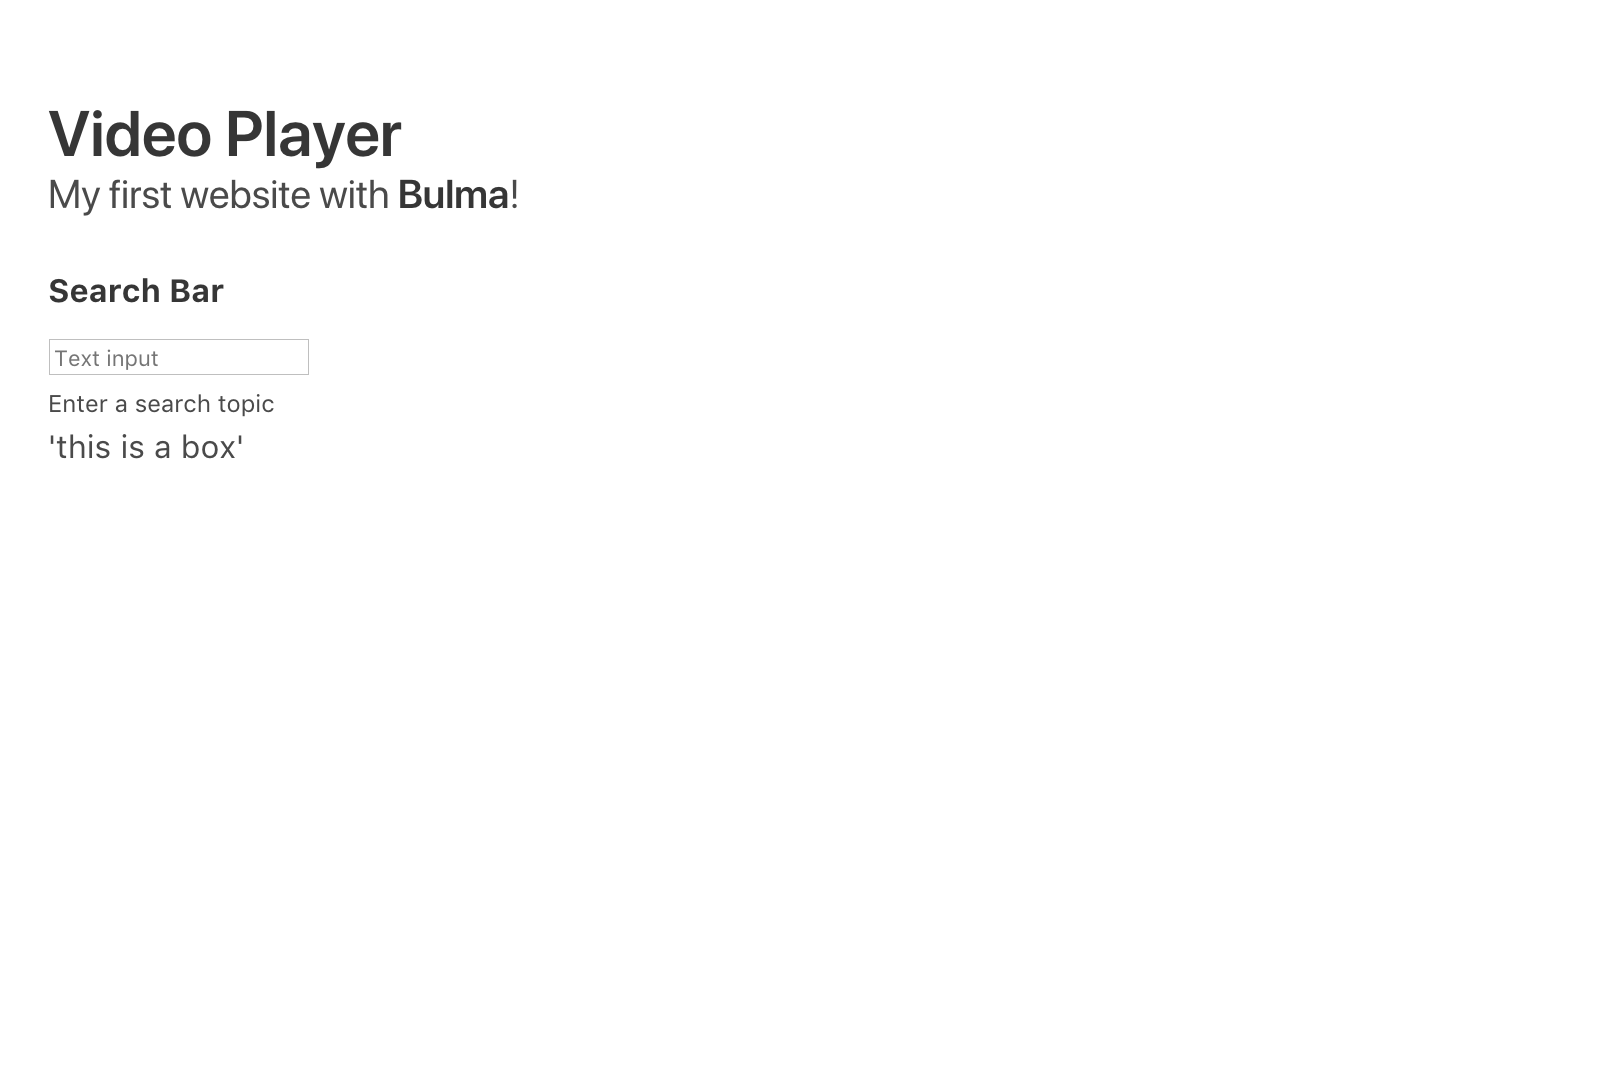
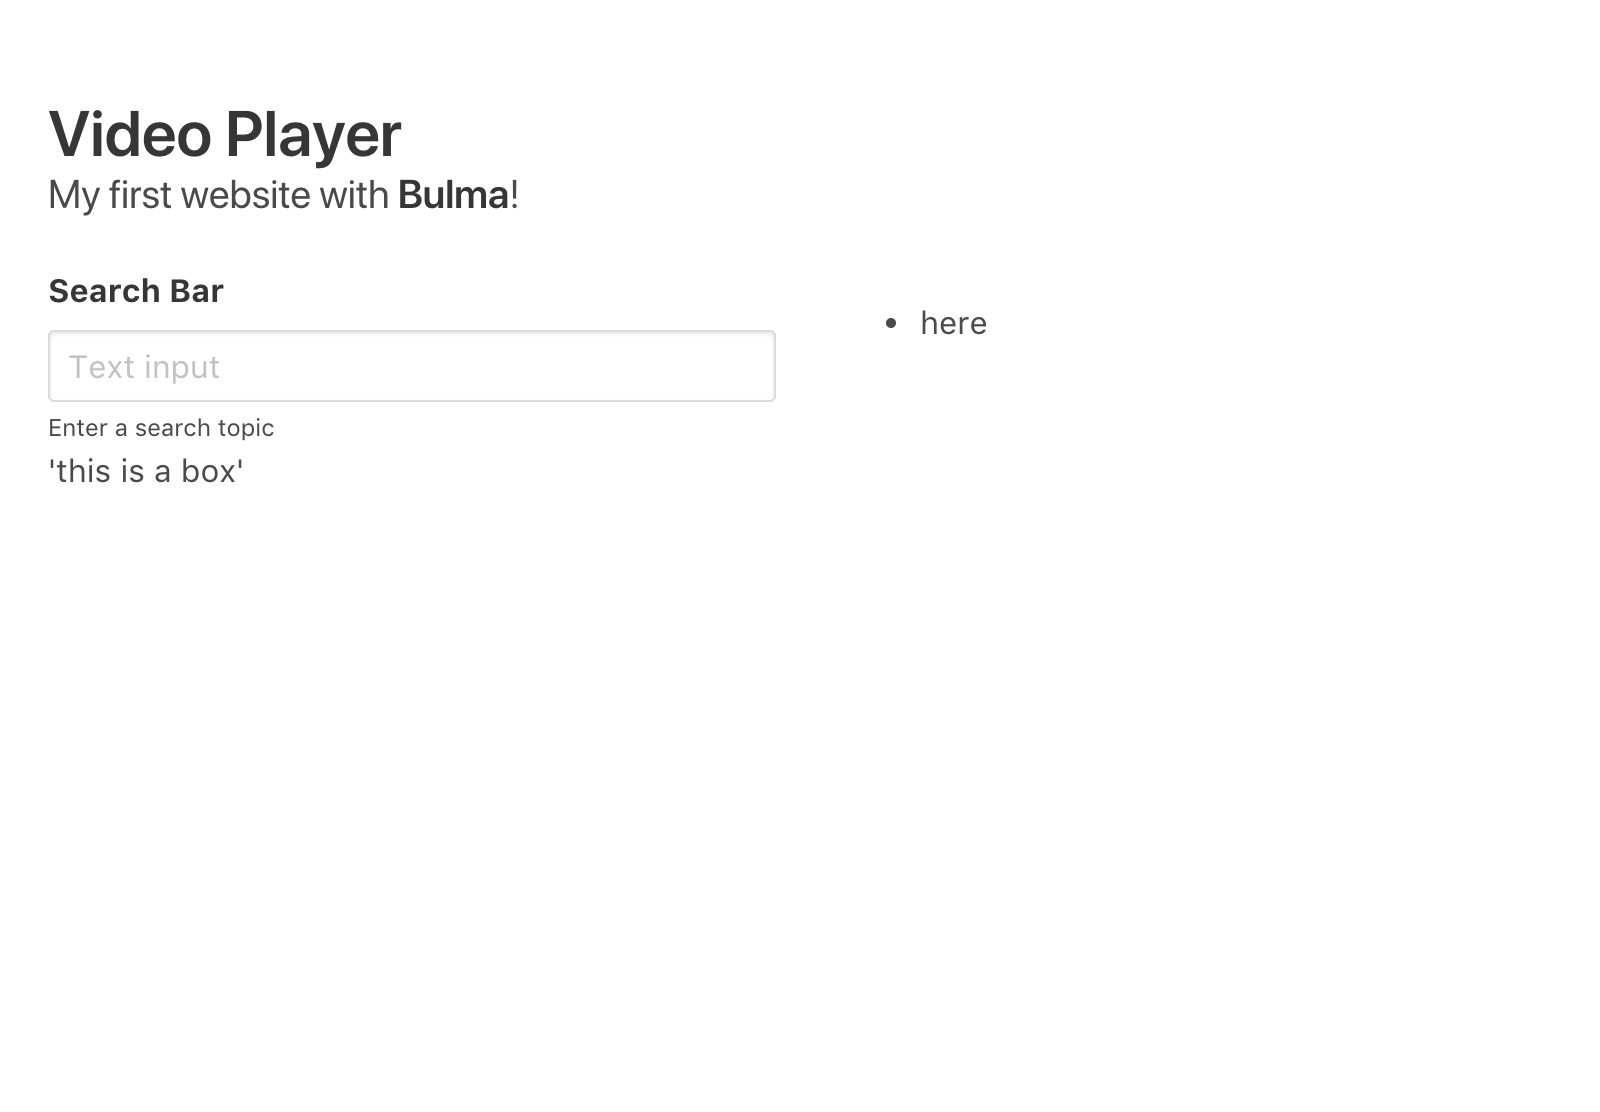
got genorators to work

Changed region(s): [[0.0312, 0.0927, 0.3125, 0.2163], [0.0312, 0.2472, 0.1875, 0.4326], [0.5625, 0.2781, 0.625, 0.309]]

diff --git a/src/components/StartUp.js b/src/components/StartUp.js
@@ -6,28 +6,31 @@ import SearchBar from './SearchBar'
 import VideoPlayer from './VideoPlayer'
 import VideoList from './VideoList'
 
-const API_key = "AIzaSyB3--fdiw09Mdkq5QMv23CpdTgP-gmPubY"
-
+const API_key = 'AIzaSyB3--fdiw09Mdkq5QMv23CpdTgP-gmPubY'
 
 class StartUp extends Component {
-  constructor(props){
+  constructor (props) {
     super(props)
-    this.state = {videos:[]}
+    this.state = {videos: []}
 
-    YTsearch({key:API_key, term:"snow"},(YTvideos) =>{
-      this.setState({videos:YTvideos})
-      console.log("here", YTvideos)
+    YTsearch({key: API_key, term: 'snow'}, (YTvideos) => {
+      this.setState({videos: YTvideos})
+      console.log('here', YTvideos)
     })
   }
 
-  render() {
+  render () {
     return (
-      <div>
-        <SearchBar />
-        <VideoPlayer />
-        <VideoList videos={this.state.videos} />
+      <div className="columns">
+        <div className="column">
+          <SearchBar />
+          <VideoPlayer />
+        </div>
+        <div className="column">
+          <VideoList videos={this.state.videos} />
+        </div>
       </div>
-    );
+    )
   }
 }
 

diff --git a/test/test-1_test.js b/test/test-1_test.js
@@ -1,22 +1,17 @@
+var assert = require('assert')
+const globals = require('../global.js')
 
-Feature('title');
+Feature('title')
 
 Scenario('Can user see page title', function * (I) {
-  I.amOnPage('http://localhost:8080/')
-  let title =  yield I.grabTitle('.tilte')
-  I.seeInTitle("Video Player")
-});
+  I.amOnPage(globals.pageUrl)
+  // let title =  yield I.grabTitle('.title')
+  let title = yield I.grabTitle()
+  // I.seeInTitle("Video Player")
+  assert.equal(title, 'React Redux')
+})
 
-
-
-// let title = yield I.grabTitle()
-
-
-// Scenario('see lat value', function * (I) {
-//   I.click('MORE INFO')
-//   I.wait(0.3)
-//   I.waitForVisible('.pic')
-//   let lat = yield I.grabTextFrom('#lat')
-//   let latNo = lat.split(' ')[1]
-//   I.see('Lat: ' + latNo)
-// })
+Scenario('Can see the page header', (I) => {
+  I.amOnPage(globals.pageUrl)
+  I.see('Video Player')
+})

diff --git a/test/blah_test.js b/test/blah_test.js
@@ -1,11 +1,10 @@
 
-Feature('Search for Video');
+Feature('Search for Video')
 
 Scenario('User search for new video', (I) => {
   const searchTerm = 'cats'
 
-  I.amOnPage('https://localhost:8080')
-  I.seeInTitle('Video Player')
-  I.fillField('.video-input', serchTerm)
-  I.see(videos, '.videoList')//see list of searched videos on side of page
-});
+  I.amOnPage('http://localhost:8080')
+  I.fillField('.input', searchTerm)
+  // I.see('cats')//see list of searched videos on side of page
+})

diff --git a/test/blah2_test.js b/test/blah2_test.js
@@ -1,11 +1,10 @@
 
-Feature('Front Page');
+Feature('Front Page')
 
 Scenario('test something', (I) => {
-  I.amOnPage('https://localhost:8080')
-  //I.fillField('textBox', 'cat')
+  I.amOnPage('http://localhost:8080')
+  // I.fillField('textBox', 'cat')
+})
 
-});
-
-//are you able to write several tests for one page?
+// Are you able to write several tests for one page?
 // I don't know what the change is

diff --git a/global.js b/global.js
@@ -1,0 +1,3 @@
+let pageUrl = 'http://localhost:8080'
+
+
